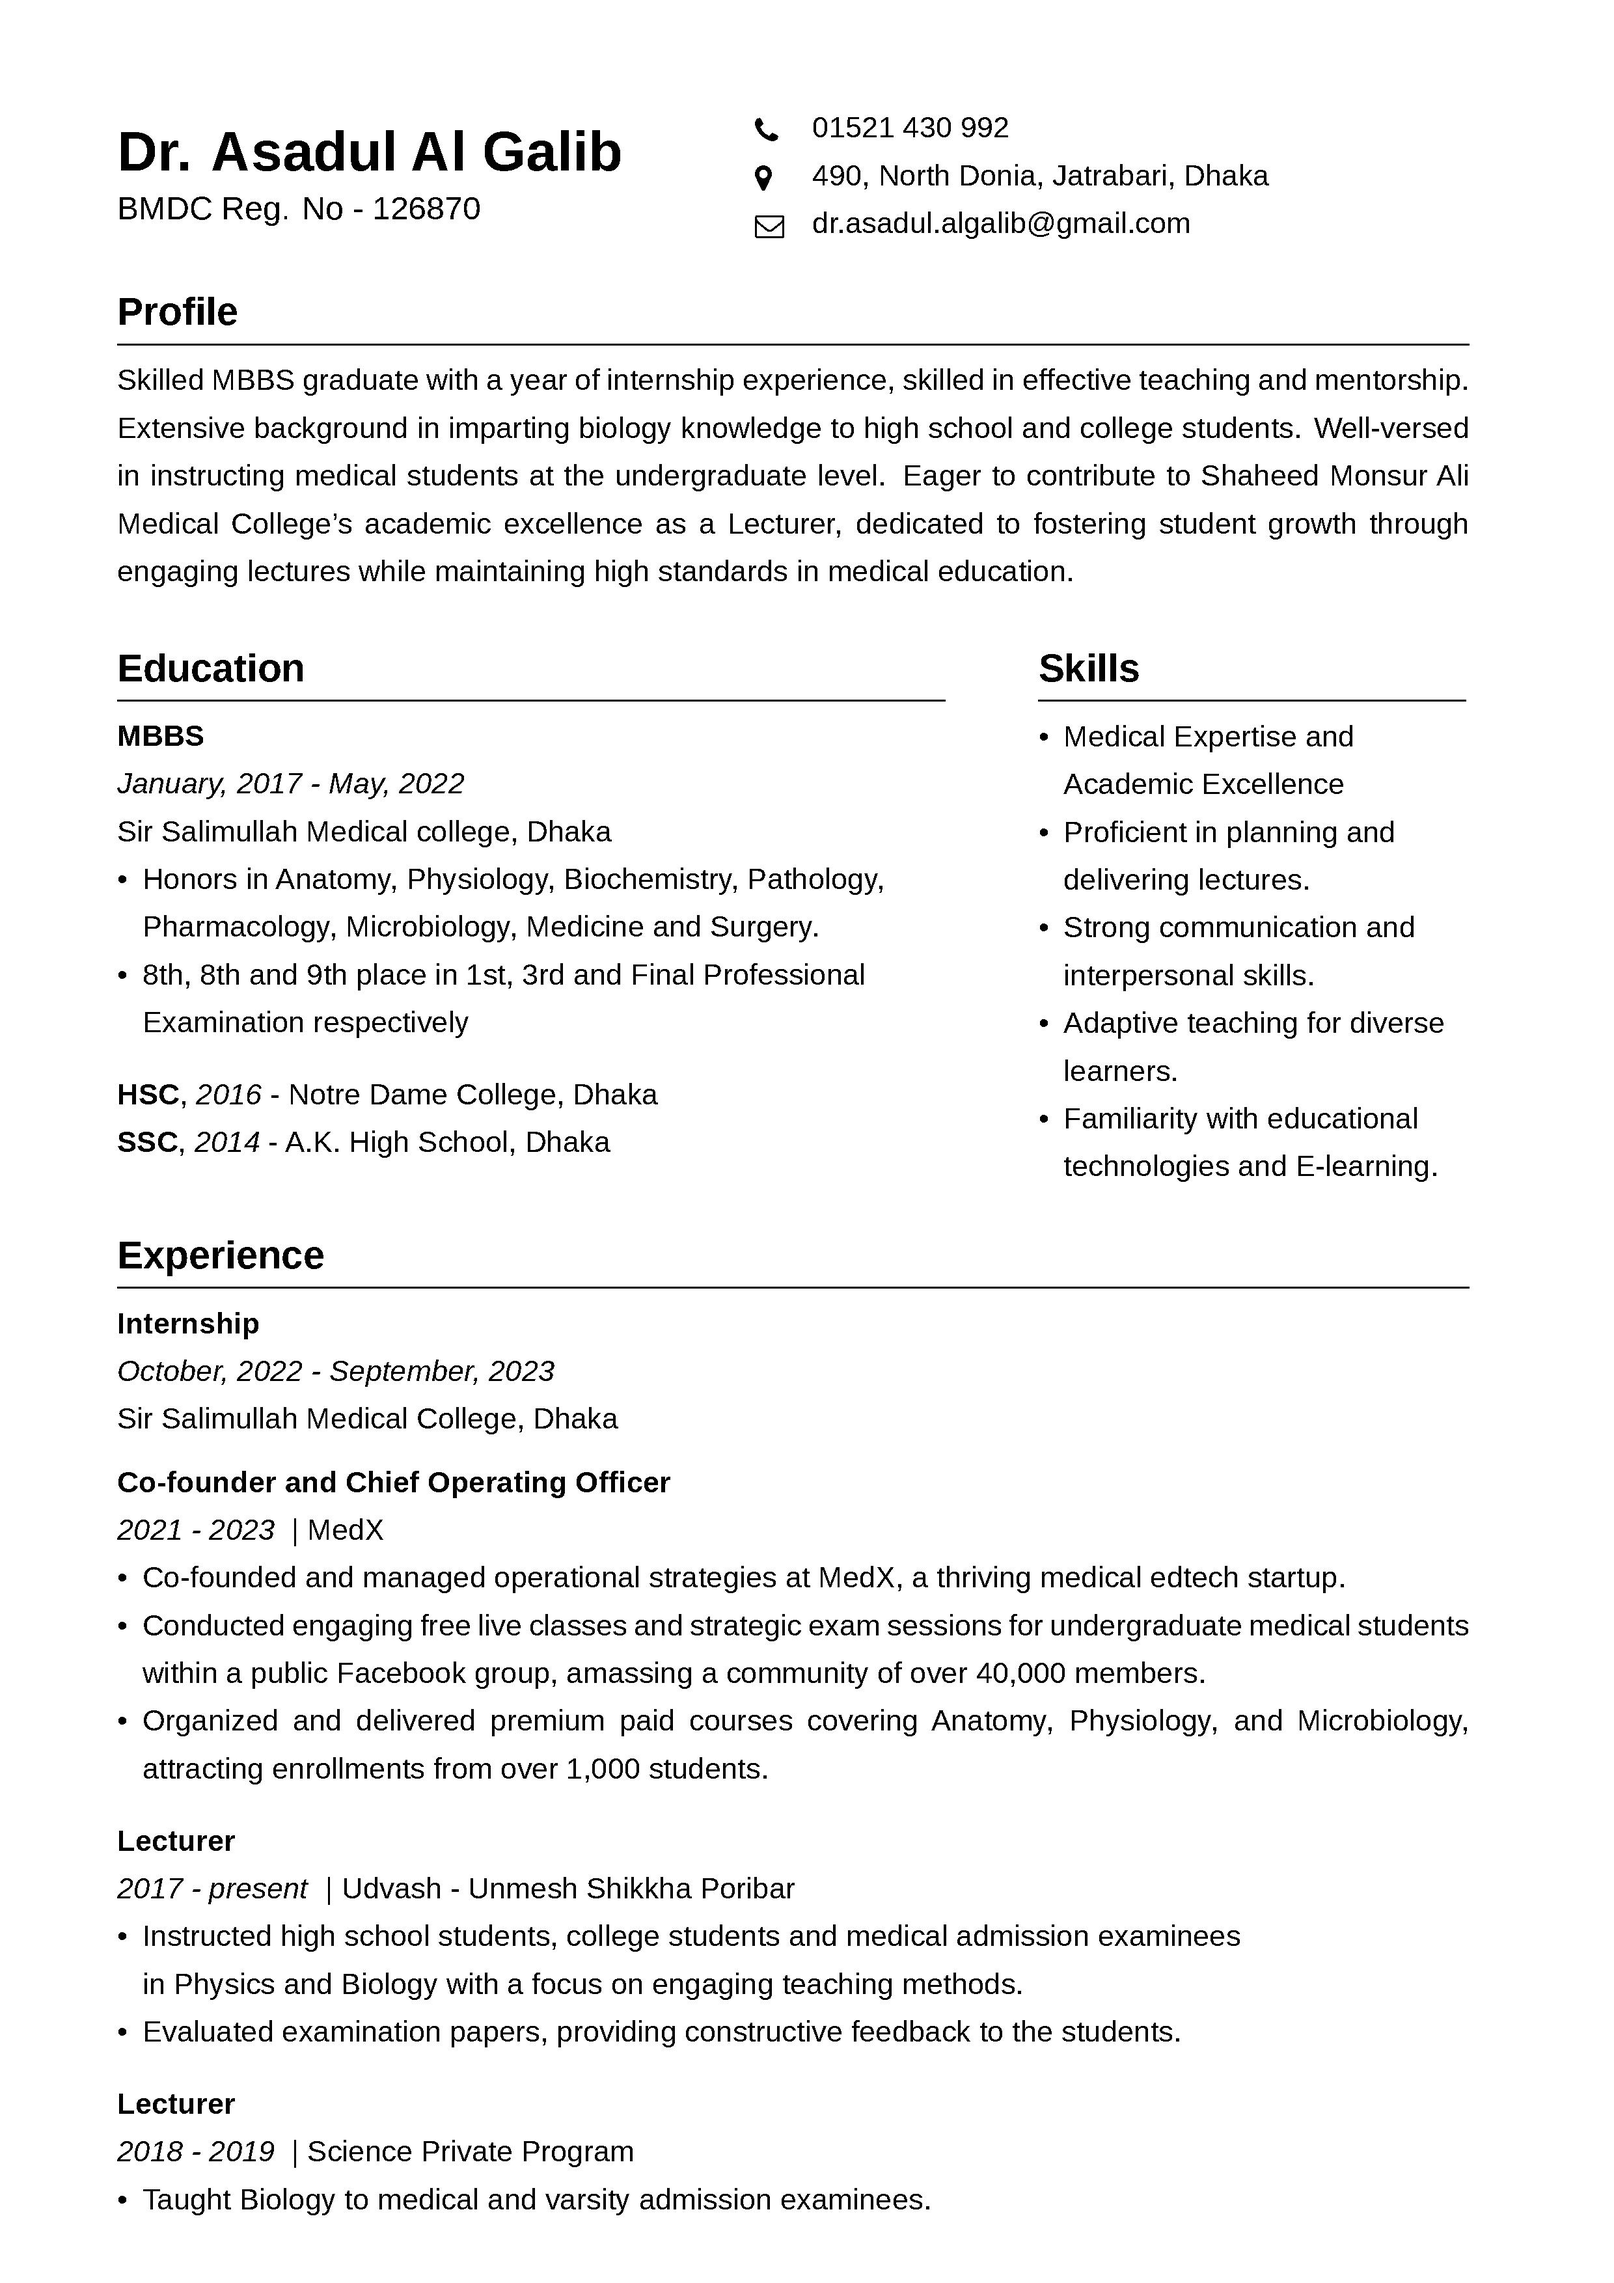
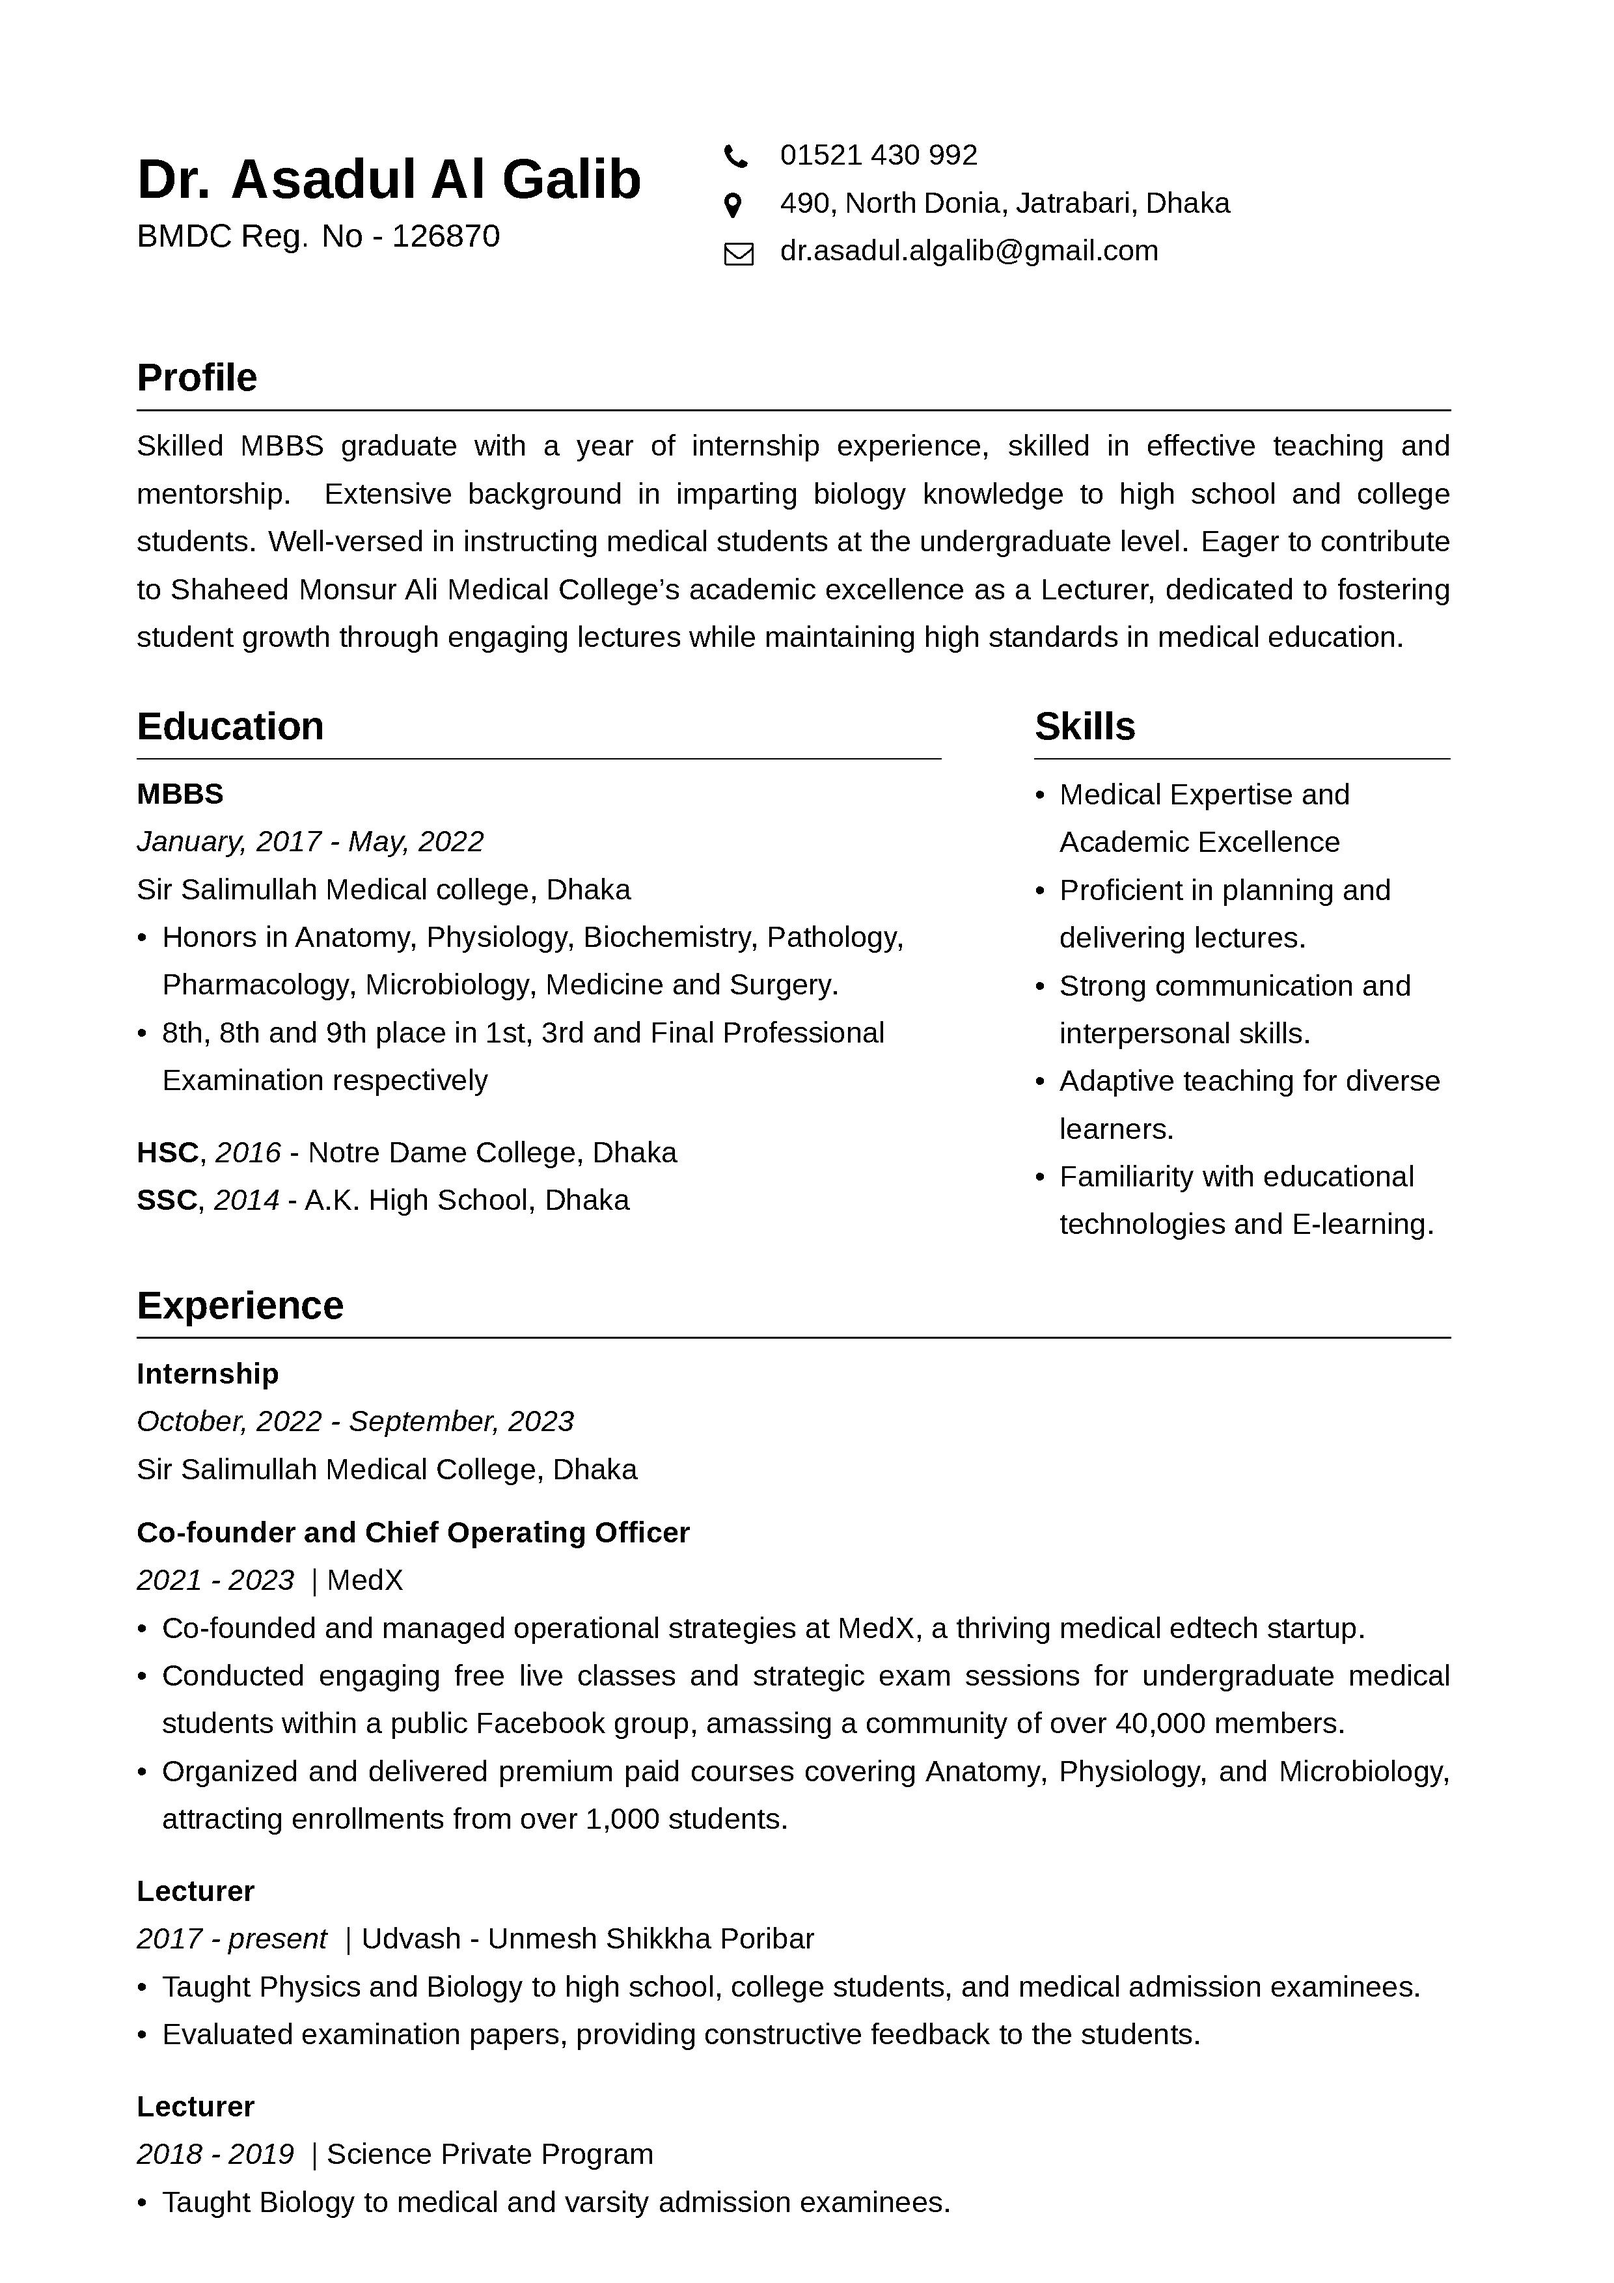
added right and left margins, edited cover letter to include medx

Changed region(s): [[0.0621, 0.0621, 0.9004, 0.9943], [0.4347, 0.0621, 0.7762, 0.1243], [0.5278, 0.9632, 0.5589, 0.9943]]

diff --git a/galib-resume-lecturer.tex b/galib-resume-lecturer.tex
@@ -1,5 +1,5 @@
 \documentclass[a4paper,11pt]{article}
-\usepackage[left=0.6in,right=0.6in,top=0.4in,bottom=0.5in]{geometry}
+\usepackage[left=0.7in,right=0.7in,top=0.5in,bottom=0.5in]{geometry}
 \usepackage{enumitem}
 \usepackage{xcolor}
 \usepackage{titlesec}
@@ -46,18 +46,18 @@
 %%         \end{tcolorbox}
 %%     };
 %% \end{tikzpicture}
-\begin{minipage}[t][2.6cm]{1.2\textwidth}
+\begin{minipage}[t][3.2cm]{1.2\textwidth}
     \raggedright
-  \begin{minipage}[h][2.6cm][h]{0.38\textwidth}
+  \begin{minipage}[h][2.8cm][h]{0.36\textwidth}
     {\huge\bfseries\color{black}Dr. Asadul Al Galib}\\
     \large{BMDC Reg. No - 126870}
   \end{minipage}
-  \begin{minipage}[h][2.6cm][h]{0.03\textwidth}
+  \begin{minipage}[h][2.8cm][h]{0.03\textwidth}
       \faPhone\\
       \faMapMarker\\
       \faEnvelopeO
   \end{minipage}
-  \begin{minipage}[h][2.6cm][h]{0.28\textwidth}
+  \begin{minipage}[h][2.8cm][h]{0.28\textwidth}
       01521 430 992\\
       490, North Donia, Jatrabari, Dhaka\\
       dr.asadul.algalib@gmail.com
@@ -67,7 +67,7 @@
   %  \includegraphics[height=3cm]{galib-passport-size}
   %\end{minipage}
 \end{minipage} 
-\begin{minipage}[t][4.6cm]{0.98\textwidth}
+\begin{minipage}[t][4.5cm]{0.98\textwidth}
   \section*{Profile}
   Skilled MBBS graduate with a year of internship experience, skilled in effective teaching and mentorship. 
   Extensive background in imparting biology knowledge to high school and college students. 
@@ -76,7 +76,7 @@
   dedicated to fostering student growth through engaging lectures while maintaining high standards in medical education.
 \end{minipage}
 
-\begin{minipage}[t][7.6cm]{0.6\textwidth}
+\begin{minipage}[t][7.5cm]{0.6\textwidth}
 \raggedright
 \section*{Education}
 \resumeentry{MBBS}{January, 2017 - May, 2022}\\ Sir Salimullah Medical college, Dhaka
@@ -88,7 +88,7 @@
 \textbf{SSC}, \textit{2014} - A.K. High School, Dhaka \\
 \end{minipage}
 \hspace{0.5cm}\hspace{0.5cm}
-\begin{minipage}[t][7.6cm]{0.31\textwidth}
+\begin{minipage}[t][7.5cm]{0.31\textwidth}
 \raggedright
 \section*{Skills}
 \begin{itemize}[left=0em, itemsep=0pt, parsep=0pt]
@@ -115,8 +115,7 @@
 \end{itemize}
 \resumeentry{Lecturer}{2017 - present} | Udvash - Unmesh Shikkha Poribar
 \begin{itemize}[left=0em, itemsep=10pt, parsep=-10pt]
-  \item Instructed high school students, college students and medical admission examinees \\ 
-    in Physics and Biology with a focus on engaging teaching methods.
+  \item Taught Physics and Biology to high school, college students, and medical admission examinees.
   \item Evaluated examination papers, providing constructive feedback to the students.
 \end{itemize}
 \resumeentry{Lecturer}{2018 - 2019} | Science Private Program
